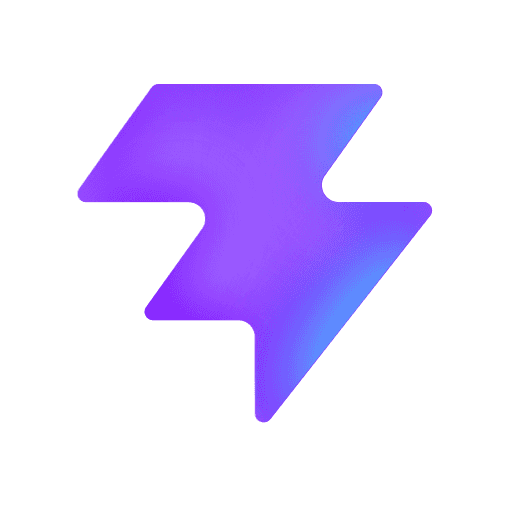
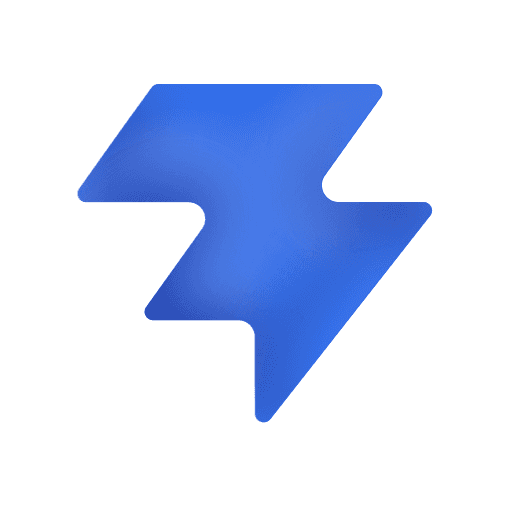
feat: apply consistent brand tokens (colors and typography)
Formaliza a paleta azul+ambar ja dominante nas telas como tokens
nomeados (--color-brand-*/--color-accent-* via @theme, Tailwind v4) em
vez de classes blue-600/amber-* soltas, e adiciona --font-sans (Inter).
De quebra, unifica emerald-700 -> green-700 (duas cores diferentes pro
mesmo significado de "positivo" entre a estimativa e o comparador).
Favicon recolorido de roxo pro azul da marca e icones do PWA
regenerados a partir dele, pra nao ficarem dessincronizados da paleta
real do app.

Changed region(s): [[0.1562, 0.1562, 0.8438, 0.8438]]

diff --git a/frontend/src/pages/VehicleDetailPage.tsx b/frontend/src/pages/VehicleDetailPage.tsx
@@ -37,7 +37,7 @@ export function VehicleDetailPage() {
 
   return (
     <div className="space-y-6">
-      <Link to="/" className="text-sm text-blue-600 underline">
+      <Link to="/" className="text-sm text-brand-600 underline hover:text-brand-700">
         ← Voltar para a busca
       </Link>
 
@@ -196,7 +196,7 @@ function CalendarHistoryPanel({
 
   if (status !== 'AVAILABLE') {
     return (
-      <p className="text-sm text-amber-700">
+      <p className="text-sm text-accent-700">
         Histórico real indisponível no momento{reason ? `: ${reason}` : '.'}
       </p>
     )
@@ -362,7 +362,7 @@ function PriceEstimateResult({
       <ul className="mt-3 space-y-1 text-sm">
         {result.components.map((component) => {
           const color =
-            component.amount > 0 ? 'text-emerald-700' : component.amount < 0 ? 'text-red-700' : 'text-slate-500'
+            component.amount > 0 ? 'text-green-700' : component.amount < 0 ? 'text-red-700' : 'text-slate-500'
           const sign = component.amount > 0 ? '+' : ''
           return (
             <li key={component.key} className="flex items-center justify-between gap-3">
@@ -376,7 +376,7 @@ function PriceEstimateResult({
         })}
       </ul>
 
-      <p className="mt-3 rounded-md border border-amber-300 bg-amber-50 px-3 py-2 text-xs text-amber-800">
+      <p className="mt-3 rounded-md border border-accent-300 bg-accent-50 px-3 py-2 text-xs text-accent-800">
         Isto é uma estimativa automática, não uma avaliação profissional — use como referência, não
         como garantia de valor de venda ou compra.
       </p>

diff --git a/frontend/src/pages/ComparePage.tsx b/frontend/src/pages/ComparePage.tsx
@@ -55,7 +55,7 @@ export function ComparePage() {
 
   return (
     <div className="space-y-6">
-      <Link to="/" className="text-sm text-blue-600 underline">
+      <Link to="/" className="text-sm text-brand-600 underline hover:text-brand-700">
         ← Voltar para a busca
       </Link>
 
@@ -76,7 +76,7 @@ function EmptyState({ message }: { message: string }) {
   return (
     <div className="rounded-lg border border-slate-200 bg-white p-6 text-center">
       <p className="text-sm text-slate-600">{message}</p>
-      <Link to="/" className="mt-3 inline-block text-sm text-blue-600 underline">
+      <Link to="/" className="mt-3 inline-block text-sm text-brand-600 underline hover:text-brand-700">
         Ir para a busca
       </Link>
     </div>
@@ -142,7 +142,7 @@ function CompareCard({
   const highlightClass = isCheapest
     ? 'border-green-400 bg-green-50'
     : isMostExpensive
-      ? 'border-amber-400 bg-amber-50'
+      ? 'border-accent-400 bg-accent-50'
       : 'border-slate-200 bg-white'
 
   return (
@@ -188,7 +188,7 @@ function CompareCard({
 }
 
 function Badge({ tone, children }: { tone: 'green' | 'amber'; children: string }) {
-  const toneClass = tone === 'green' ? 'bg-green-600' : 'bg-amber-600'
+  const toneClass = tone === 'green' ? 'bg-green-600' : 'bg-accent-600'
   return (
     <span className={`inline-block rounded-full px-2 py-0.5 text-xs font-medium text-white ${toneClass}`}>
       {children}

diff --git a/frontend/src/pages/MyVehiclesPage.tsx b/frontend/src/pages/MyVehiclesPage.tsx
@@ -48,7 +48,7 @@ export function MyVehiclesPage() {
         <h1 className="text-2xl font-semibold text-slate-900">Meus veículos</h1>
         <p className="text-sm text-slate-600">
           Você precisa{' '}
-          <Link to="/login" className="text-blue-600 underline">
+          <Link to="/login" className="text-brand-600 underline hover:text-brand-700">
             entrar
           </Link>{' '}
           para ver seus favoritos, estimativas salvas e alertas.
@@ -115,7 +115,7 @@ function FavoritesSection() {
                 <tr key={item.id}>
                   <td className="px-4 py-2">{item.brand}</td>
                   <td className="px-4 py-2">
-                    <Link to={`/vehicles/${item.modelId}`} className="text-blue-600 underline">
+                    <Link to={`/vehicles/${item.modelId}`} className="text-brand-600 underline hover:text-brand-700">
                       {item.model}
                     </Link>
                   </td>
@@ -166,7 +166,7 @@ function SavedEstimatesSection() {
                   <div>
                     <Link
                       to={`/vehicles/${estimate.vehicle.modelId}`}
-                      className="font-medium text-blue-600 underline"
+                      className="font-medium text-brand-600 underline hover:text-brand-700"
                     >
                       {estimate.vehicle.brand} {estimate.vehicle.model}
                     </Link>

diff --git a/frontend/src/index.css b/frontend/src/index.css
@@ -1,4 +1,31 @@
+@import url("https://fonts.googleapis.com/css2?family=Inter:wght@400;500;600;700&display=swap");
 @import "tailwindcss";
+
+@theme {
+  /* Identidade visual: azul (ação primária, links) + âmbar (destaque: favoritos, avisos) sobre
+     a escala neutra "slate" já usada em todo o app. Mesmos valores que já estavam espalhados
+     como classes blue-600 e amber-600 do Tailwind — só nomeados, pra trocar a paleta um dia
+     sem caçar cada uso. */
+  --color-brand-50: #eff6ff;
+  --color-brand-100: #dbeafe;
+  --color-brand-200: #bfdbfe;
+  --color-brand-500: #3b82f6;
+  --color-brand-600: #2563eb;
+  --color-brand-700: #1d4ed8;
+  --color-brand-800: #1e40af;
+  --color-brand-900: #1e3a8a;
+
+  --color-accent-50: #fffbeb;
+  --color-accent-100: #fef3c7;
+  --color-accent-300: #fcd34d;
+  --color-accent-400: #fbbf24;
+  --color-accent-500: #f59e0b;
+  --color-accent-600: #d97706;
+  --color-accent-700: #b45309;
+  --color-accent-800: #92400e;
+
+  --font-sans: 'Inter', ui-sans-serif, system-ui, -apple-system, sans-serif;
+}
 
 :root {
   color-scheme: light dark;

diff --git a/frontend/src/pages/RegisterPage.tsx b/frontend/src/pages/RegisterPage.tsx
@@ -92,7 +92,7 @@ export function RegisterPage() {
           />
           <span>
             Li e aceito a{' '}
-            <Link to="/privacidade" className="text-blue-600 underline" target="_blank">
+            <Link to="/privacidade" className="text-brand-600 underline hover:text-brand-700" target="_blank">
               política de privacidade
             </Link>
             .
@@ -112,7 +112,7 @@ export function RegisterPage() {
 
       <p className="text-sm text-slate-600">
         Já tem conta?{' '}
-        <Link to="/login" className="text-blue-600 underline">
+        <Link to="/login" className="text-brand-600 underline hover:text-brand-700">
           Entrar
         </Link>
       </p>

diff --git a/frontend/src/components/FavoriteButton.tsx b/frontend/src/components/FavoriteButton.tsx
@@ -37,7 +37,7 @@ export function FavoriteButton({ priceEntryId }: { priceEntryId: number }) {
       aria-label={isFavorited ? 'Remover dos favoritos' : 'Adicionar aos favoritos'}
       title={isFavorited ? 'Remover dos favoritos' : 'Adicionar aos favoritos'}
       className={`text-lg leading-none disabled:opacity-50 ${
-        isFavorited ? 'text-amber-500 hover:text-amber-600' : 'text-slate-300 hover:text-amber-500'
+        isFavorited ? 'text-accent-500 hover:text-accent-600' : 'text-slate-300 hover:text-accent-500'
       }`}
     >
       {isFavorited ? '★' : '☆'}

diff --git a/frontend/src/pages/SearchPage.tsx b/frontend/src/pages/SearchPage.tsx
@@ -374,7 +374,7 @@ function ResultsSection({
                   </td>
                   <td className="px-4 py-2">{item.brand}</td>
                   <td className="px-4 py-2">
-                    <Link to={`/vehicles/${item.modelId}`} className="text-blue-600 underline">
+                    <Link to={`/vehicles/${item.modelId}`} className="text-brand-600 underline hover:text-brand-700">
                       {item.model}
                     </Link>
                   </td>

diff --git a/frontend/index.html b/frontend/index.html
@@ -6,7 +6,7 @@
     <link rel="icon" href="/favicon.svg" sizes="any" type="image/svg+xml" />
     <link rel="apple-touch-icon" href="/apple-touch-icon-180x180.png" />
     <meta name="viewport" content="width=device-width, initial-scale=1.0" />
-    <meta name="theme-color" content="#0f172a" />
+    <meta name="theme-color" content="#2563eb" />
     <title>FIPE Explorer</title>
   </head>
   <body>

diff --git a/frontend/vite.config.ts b/frontend/vite.config.ts
@@ -16,7 +16,7 @@ export default defineConfig({
         short_name: 'FIPE Explorer',
         description: 'Exploração e análise da Tabela FIPE: busca, comparador e alertas de preço.',
         lang: 'pt-BR',
-        theme_color: '#0f172a',
+        theme_color: '#2563eb',
         background_color: '#f8fafc',
         display: 'standalone',
         start_url: '/',

diff --git a/frontend/src/pages/LoginPage.tsx b/frontend/src/pages/LoginPage.tsx
@@ -66,7 +66,7 @@ export function LoginPage() {
 
       <p className="text-sm text-slate-600">
         Ainda não tem conta?{' '}
-        <Link to="/cadastro" className="text-blue-600 underline">
+        <Link to="/cadastro" className="text-brand-600 underline hover:text-brand-700">
           Criar conta
         </Link>
       </p>
